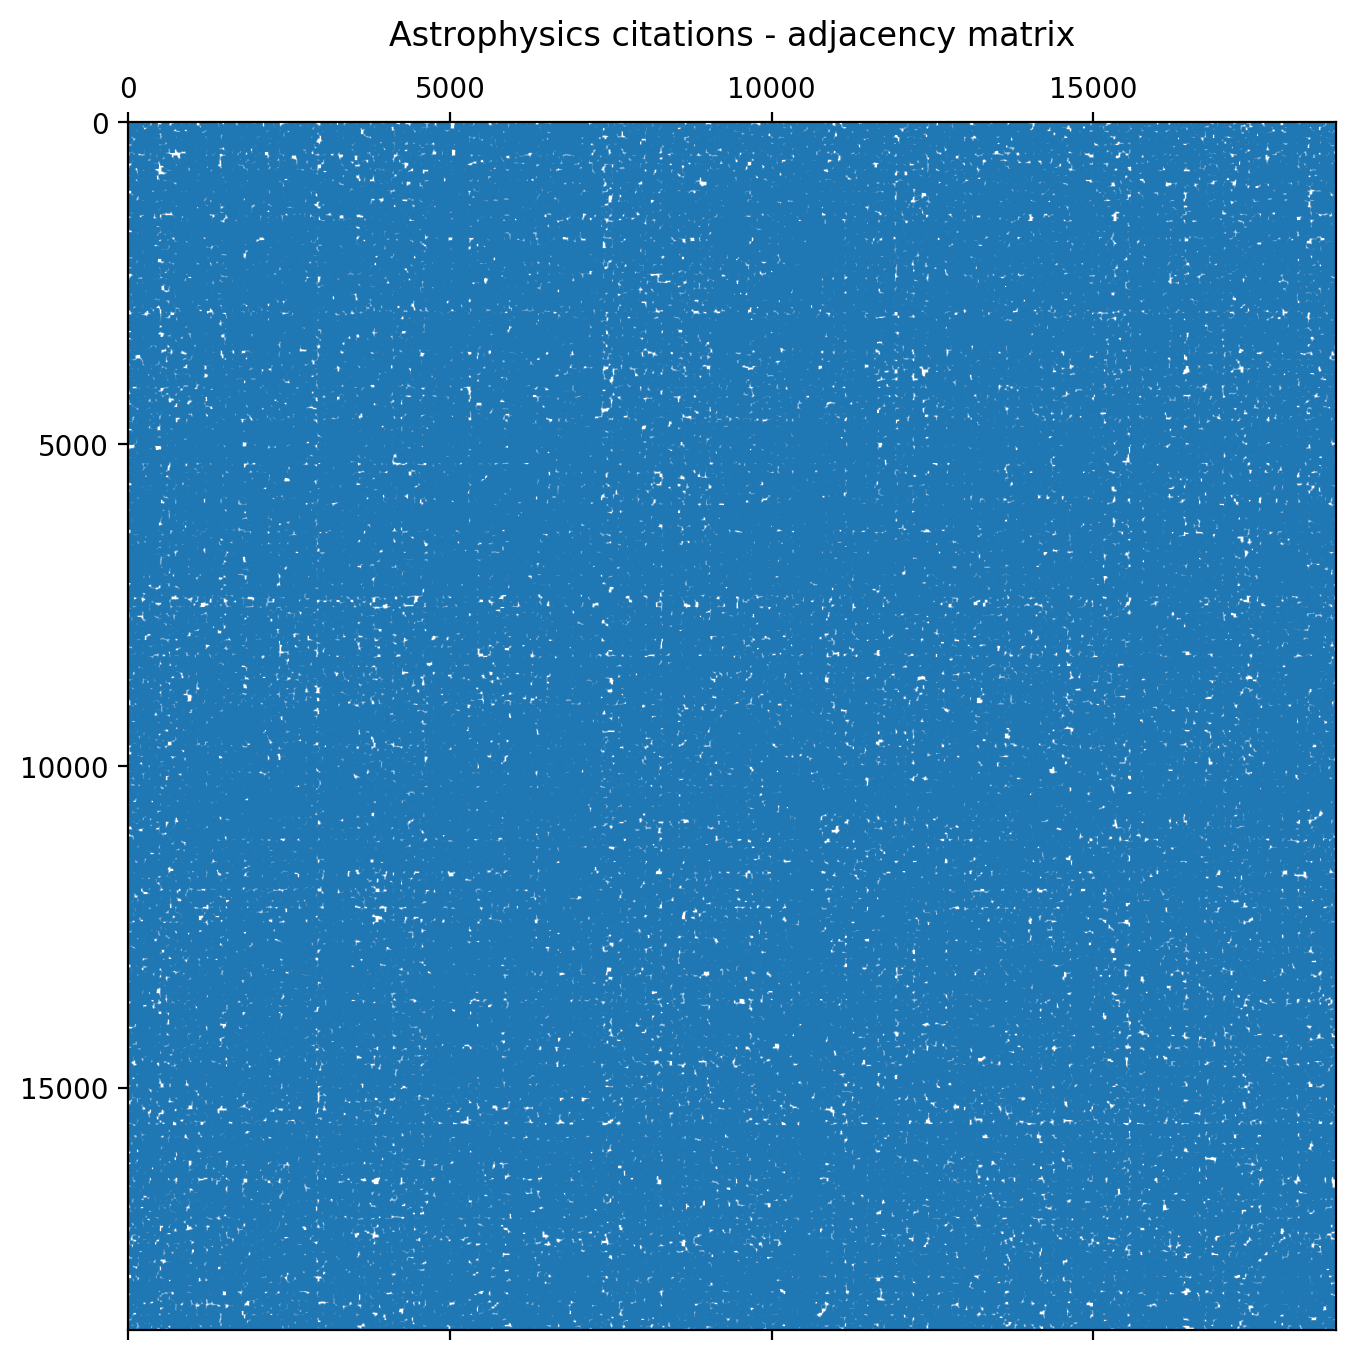
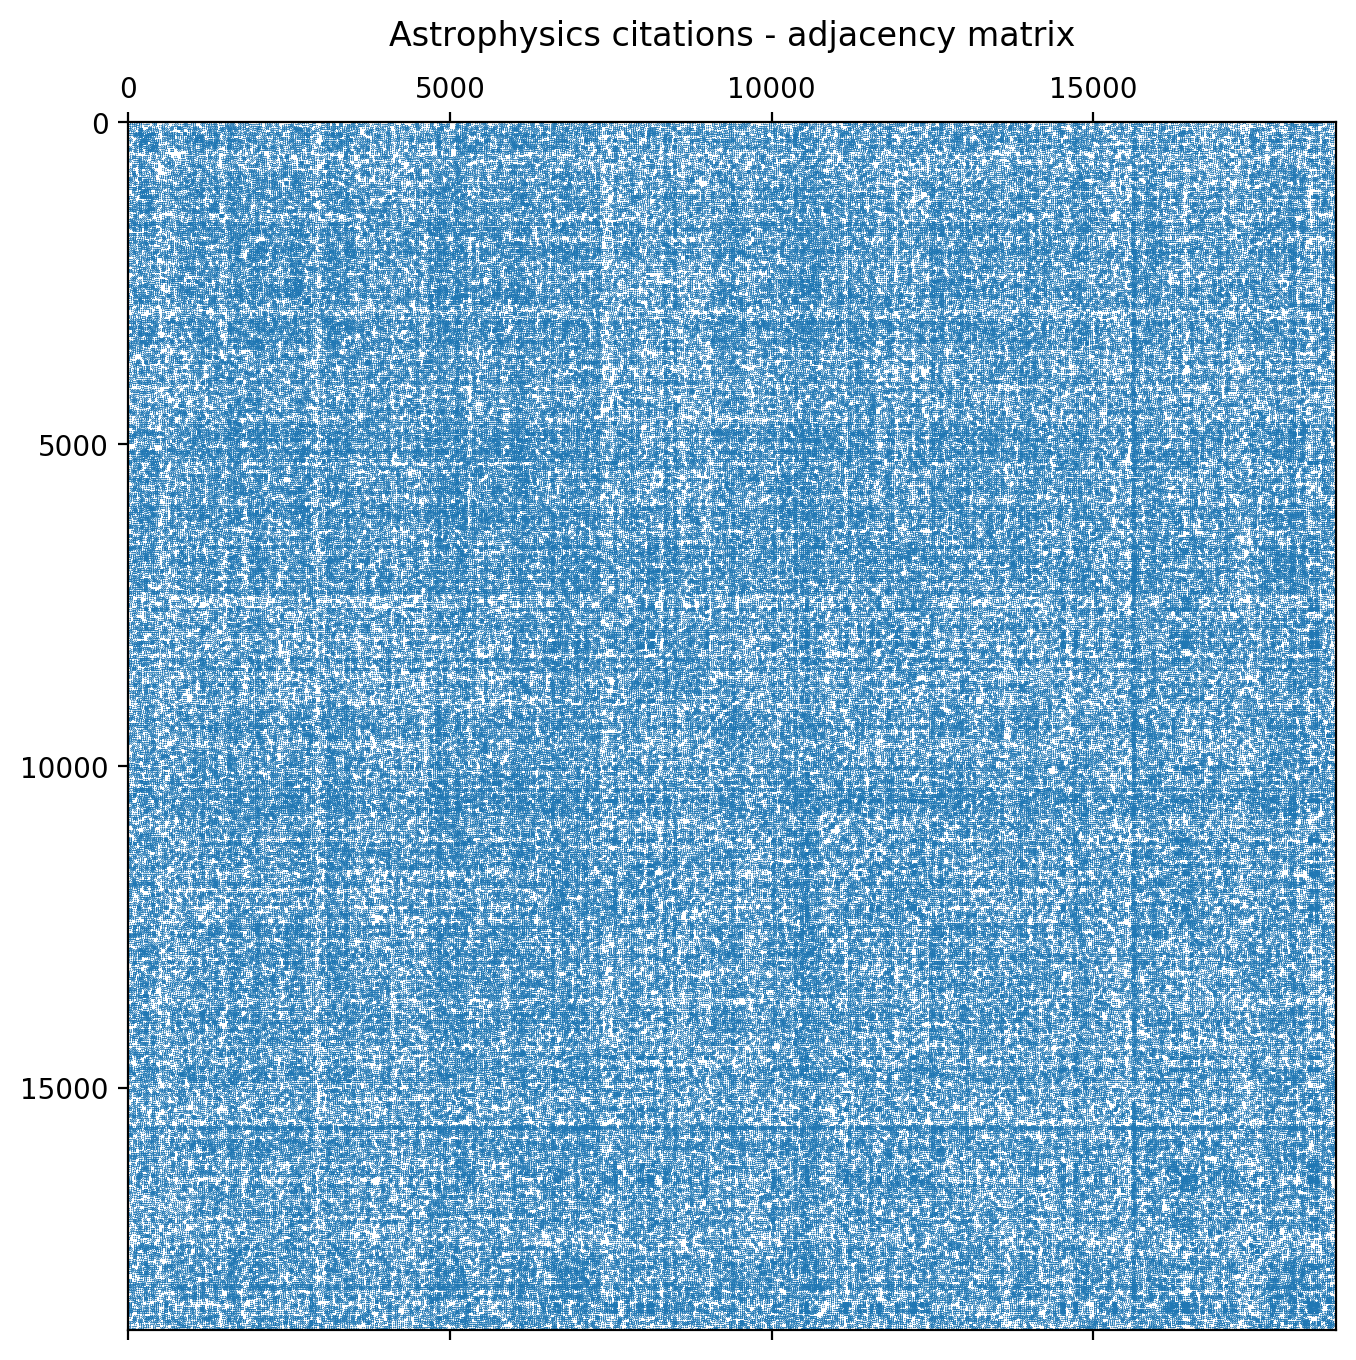
updated graphics

diff --git a/network.py b/network.py
@@ -133,7 +133,7 @@ class Network:
     def showA(self):
         plt.figure(figsize = (8,8))
         plt.title(self.name + " - adjacency matrix")
-        plt.spy(self.A_sparse, markersize = .5)
+        plt.spy(self.A_sparse, markersize = .005)
         plt.savefig(self.name + ' - plot_' +  'A.png', dpi=200, bbox_inches = 'tight')
         plt.close()
 
